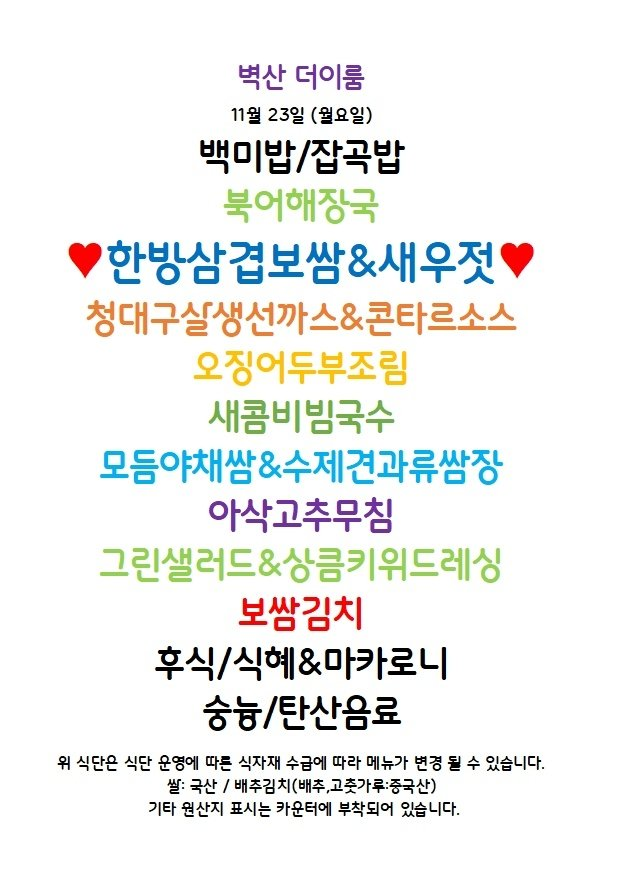
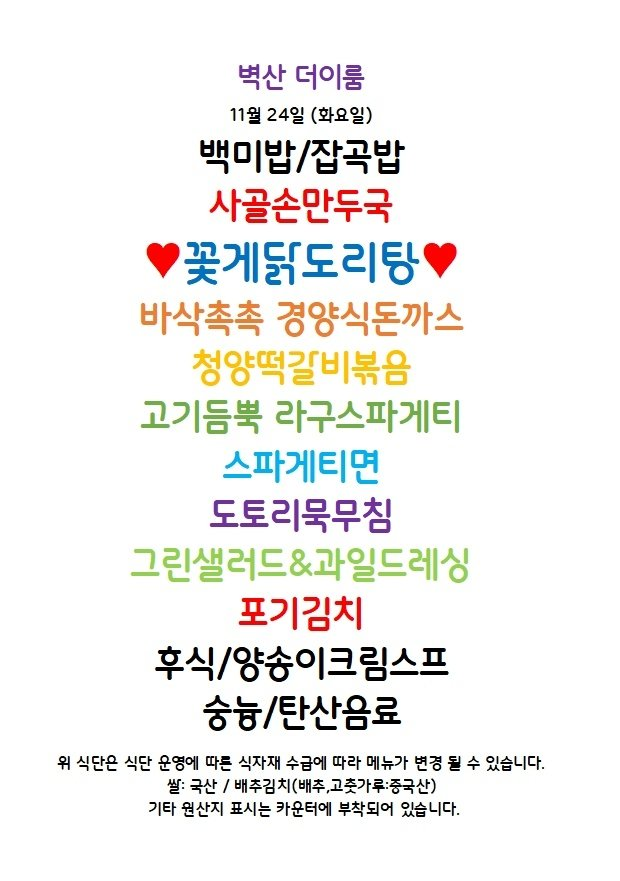
Update menu board assets

Changed region(s): [[0.0922, 0.0614, 0.8608, 0.8284], [0.0922, 0.8591, 0.8916, 0.9511]]

diff --git a/guro-menu/index.html b/guro-menu/index.html
@@ -32,7 +32,7 @@
   </header>
   <section class="meta">
     <div><small>기준 날짜</small><strong>2026년 11월 24일 화요일</strong></div>
-    <div><small>최종 갱신</small><strong>2026-11-24 09:03:33</strong></div>
+    <div><small>최종 갱신</small><strong>2026-11-24 09:17:02</strong></div>
     <div><small>등록 식당</small><strong>5개</strong></div>
   </section>
   <div class="notice">공개 카카오 채널의 메뉴 이미지를 자동 수집하고 OCR로 정리합니다. 텍스트에 오타가 있을 수 있으니 식단 이미지를 함께 확인해 주세요.</div>
@@ -89,8 +89,8 @@
           <a class="channel" href="https://pf.kakao.com/_xdLzxgG" target="_blank" rel="noopener">원본 채널</a>
         </div>
         <img class="menu-image" src="./images/byucksan-theirum.png" alt="벽산더이룸 식단 이미지" loading="lazy">
-        <p class="message">최신 공개 식단 이미지의 텍스트입니다. 날짜는 원본 이미지를 확인해 주세요.</p>
-        <ul><li>백미밥/잡곡밥</li><li>청대구실생선까스&amp;콘타르소스</li><li>새콤비빔국수</li><li>모듬야채쌈&amp;수제견과류쌈장</li><li>아삭고추무침</li><li>그린샐러드&amp;상큼키위드레싱</li><li>보쌈김치</li><li>후식/식혜&amp;마카로니</li><li>숭늉/탄산음료</li><li>WM: 국산 / HAYA (HA DERBY)</li><li>기타 원산지 BALE 카운터에 부착되어 있습니다</li></ul>
+        
+        <ul><li>백미밥/잡곡밥</li><li>사골손만두국</li><li>바삭촉촉 경양식돈까스</li><li>DISS 라구스파게티</li><li>스파게티면</li><li>도토리묵무침</li><li>포기김치</li><li>후식/양송이크림스프</li><li>숭늉/탄산음료</li><li>쌀: 국산 / 배추김치(배추,고촛가루:중국산)</li><li>기타 원산지 표시는 카운터에 부착되어 있습니다</li></ul>
       </article>
 
       <article class="restaurant-card">

diff --git a/menu-today/index.html b/menu-today/index.html
@@ -209,7 +209,7 @@
 
     <section class="meta-bar">
       <div class="meta-card"><div class="meta-label">기준 날짜</div><div class="meta-value">2026년 11월 24일 화요일</div></div>
-      <div class="meta-card"><div class="meta-label">최종 가져온 시간</div><div class="meta-value">2026-11-24 09:03:23</div></div>
+      <div class="meta-card"><div class="meta-label">최종 가져온 시간</div><div class="meta-value">2026-11-24 09:16:51</div></div>
       <div class="meta-card"><div class="meta-label">확인 완료</div><div class="meta-value">9개 식당</div></div>
       <div class="meta-card"><div class="meta-label">준비중</div><div class="meta-value">3개 채널</div></div>
     </section>
